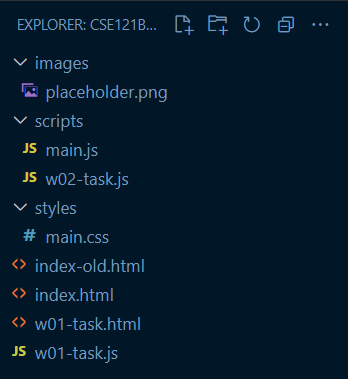
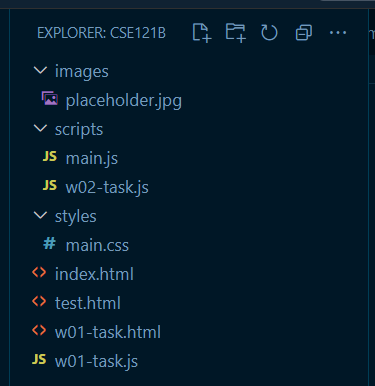
image updates

diff --git a/docs/week02/w02-assignment.html b/docs/week02/w02-assignment.html
@@ -36,14 +36,9 @@
 
     <h2>W02: Programming Task</h2>
     <h3>Overview</h3>
-    <p>You will replace your cse121b site home page (<code>index.html</code>) with a new page.
-      The structure, style, and some of the responsive menu programming will be provided. The task
-      is to complete a series of programming enhancements to supply content to this new page.</p>
-    <div class="callout info">💡 In order for the script to affect the HTML document,
-      the HTML must reference the source of the JavaScript so that the HTML DOM can be manipulated
-      (edited). This JavaScript file(s) will be external to the HTML document. The
-      <code>&lt;script&gt;</code> element will be
-      used to reference the external mJS file.
+    <p>You will build your cse121b site home page named <code>index.html</code>. The structure, style, and some of the responsive menu programming will be provided. The task is to complete a series of programming enhancements to supply content to this new page using JavaScript document manipulation.</p>
+    <div class="callout info">💡 In order for the script to affect the HTML document, the HTML must reference the source of the JavaScript so that the HTML DOM can be manipulated (edited). This JavaScript file(s) will be external to the HTML document. The <code>&lt;script&gt;</code> element will be
+      used to reference the external JS file.
     </div>
 
 
@@ -55,11 +50,7 @@
       <figcaption>Figure 1: Example File and Folder Structure</figcaption>
     </figure>
     <ol>
-      <li>In VS Code with your cse121b local repository folder open, rename the existing
-        <code>index.html</code> file to <code>index-old.html</code>
-      </li>
-      <li>Download the <a href="../taskfiles/w02-task.zip">starter files</a>, unzip the files, and
-        place those unzipped files and folders as given into the cse121b folder.
+      <li>Download the <a href="../taskfiles/w02-task.zip">starter files</a>, unzip the files, and place those unzipped files and folders as given into the cse121b folder.
         <div class="callout info">
           The starter files contain an <code>index.html</code> file and three folders named
           <code>scripts</code>,
